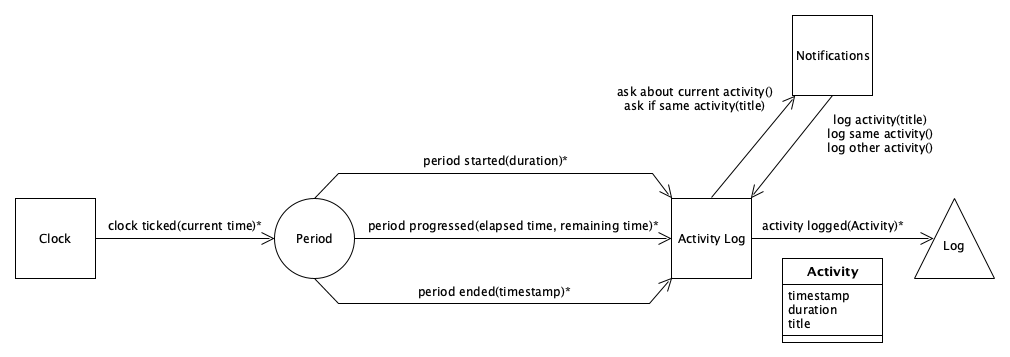
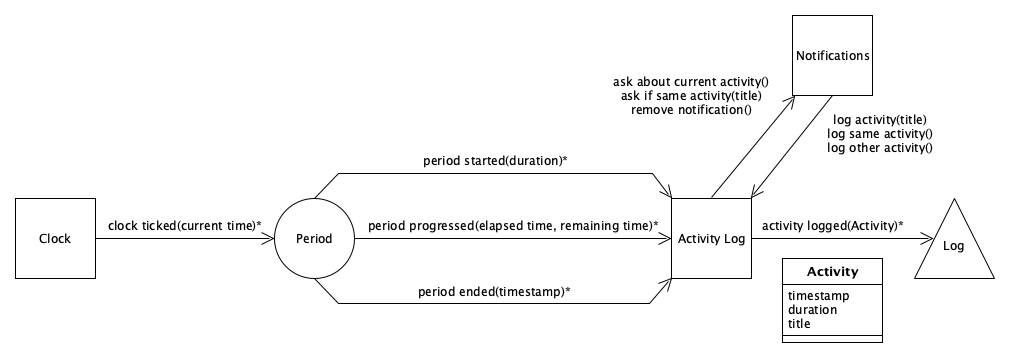
Remove notification when activity logged or app exited

Changed region(s): [[0.6139, 0.2157, 0.7673, 0.3389]]

diff --git a/Activity Sampling/Portals/Notifications.swift b/Activity Sampling/Portals/Notifications.swift
@@ -41,7 +41,7 @@ class Notifications : NSObject {
         notification.responsePlaceholder = "Your current activity"
         
         NSUserNotificationCenter.default.deliver(notification)
-        self.lastNotification = notification
+        lastNotification = notification
     }
     
     func askIfSameActivity(title: String) {
@@ -55,7 +55,12 @@ class Notifications : NSObject {
         notification.otherButtonTitle = "Same Activity"
         
         NSUserNotificationCenter.default.deliver(notification)
-        self.lastNotification = notification
+        lastNotification = notification
+    }
+    
+    func removeNotifivation() {
+        NSUserNotificationCenter.default.removeDeliveredNotification(lastNotification!)
+        lastNotification = nil
     }
     
 }

diff --git a/Activity Sampling/App.swift b/Activity Sampling/App.swift
@@ -46,6 +46,10 @@ extension ActivityLogController : PeriodDelegate, NotificationsDelegate {
         delegate = App.shared.log
     }
     
+    override func viewWillDisappear() {
+        App.shared.notifications.removeNotifivation()
+    }
+    
     // MARK: PeriodDelegate
     
     func started(duration: TimeInterval) {
@@ -86,6 +90,7 @@ extension Log : ActivityLogDelegate {
     
     func logged(activity: Activity) {
         write(activity)
+        App.shared.notifications.removeNotifivation()
     }
     
 }
